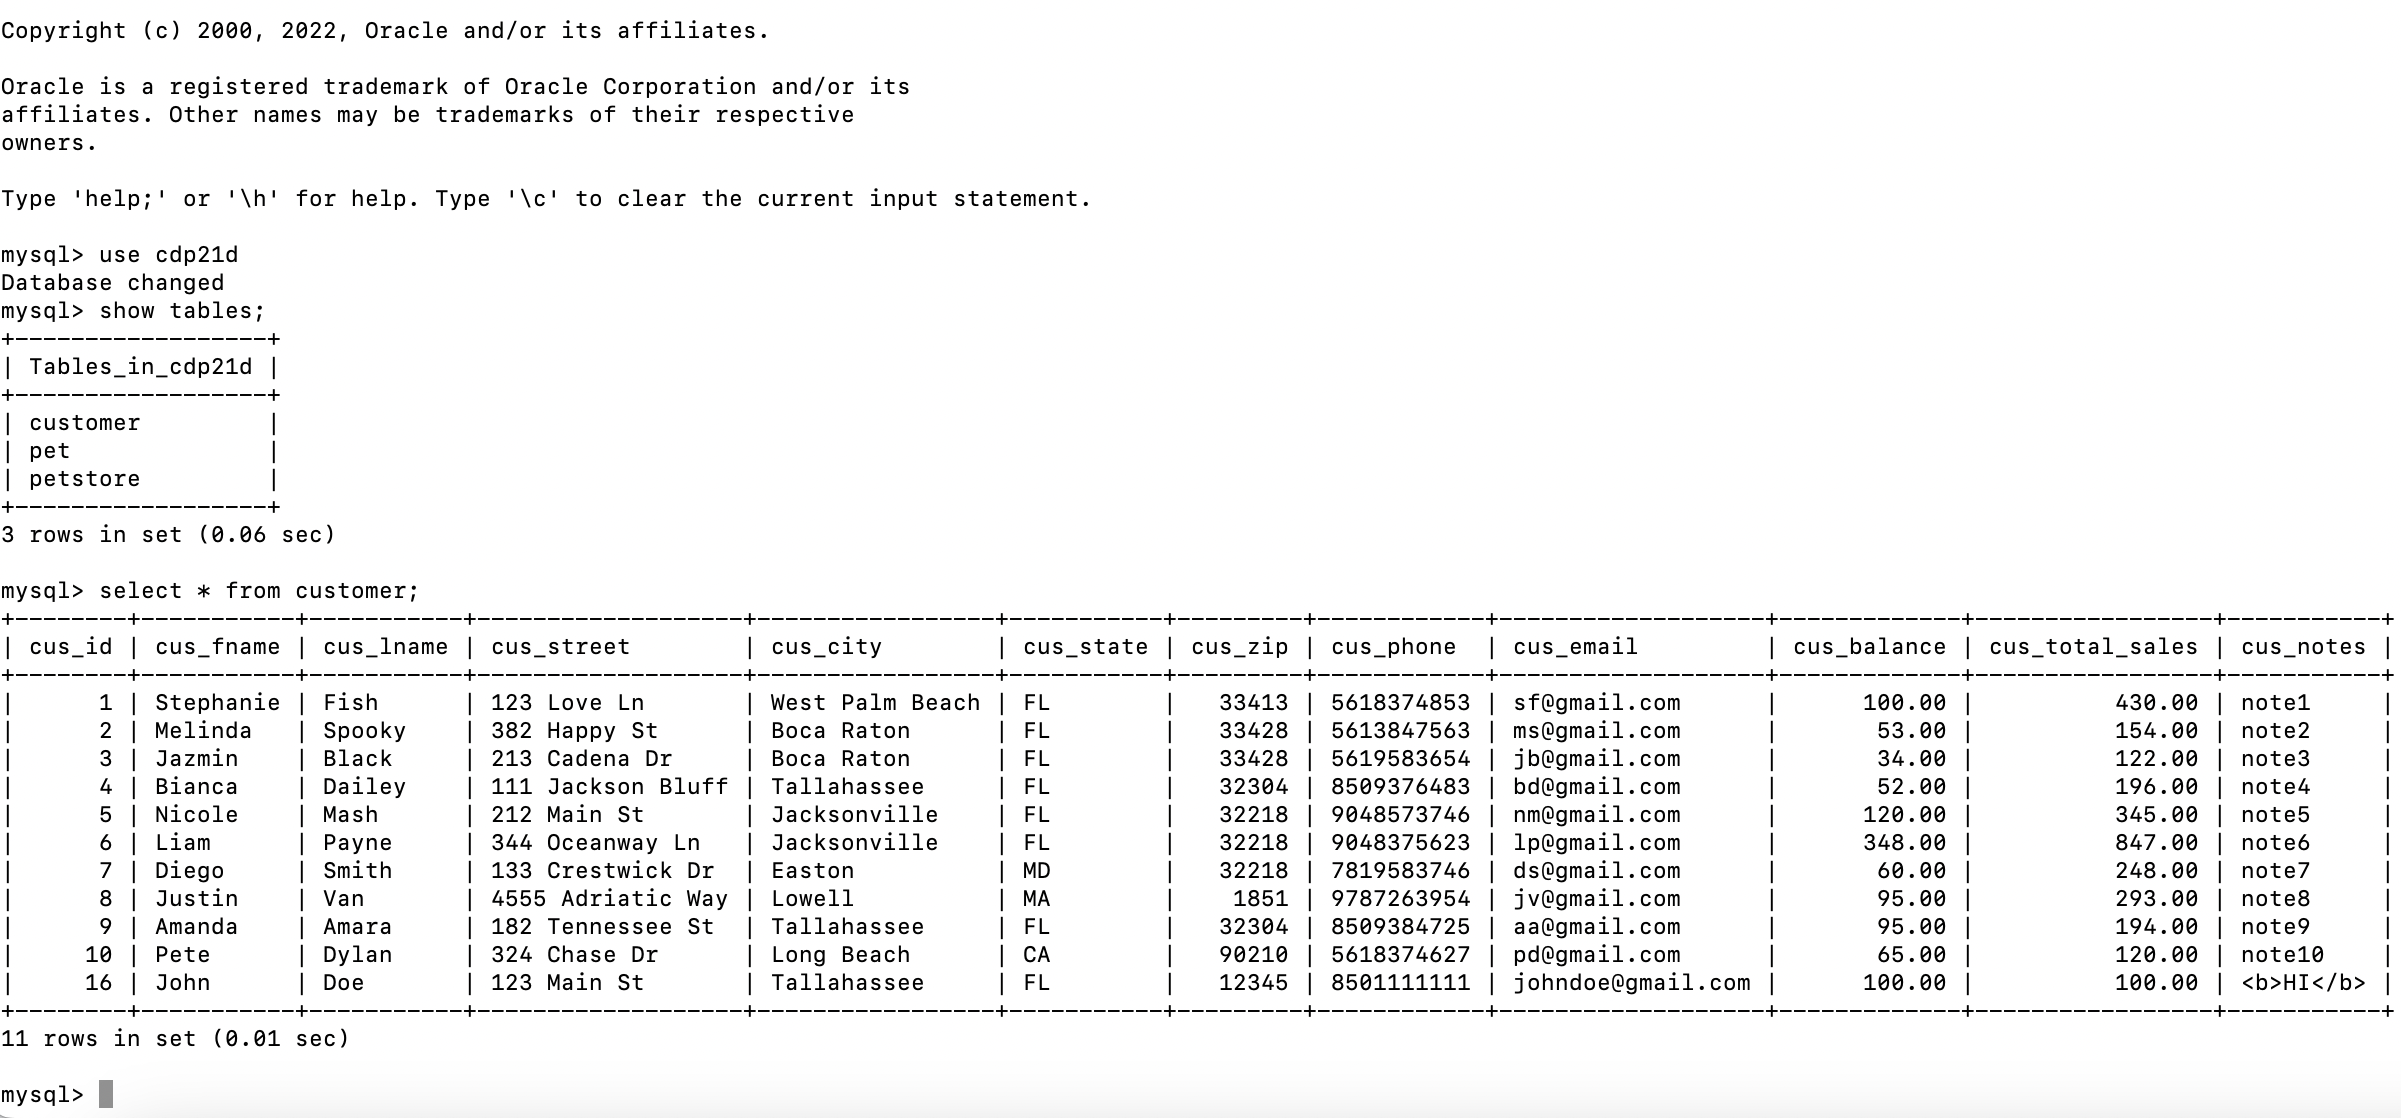
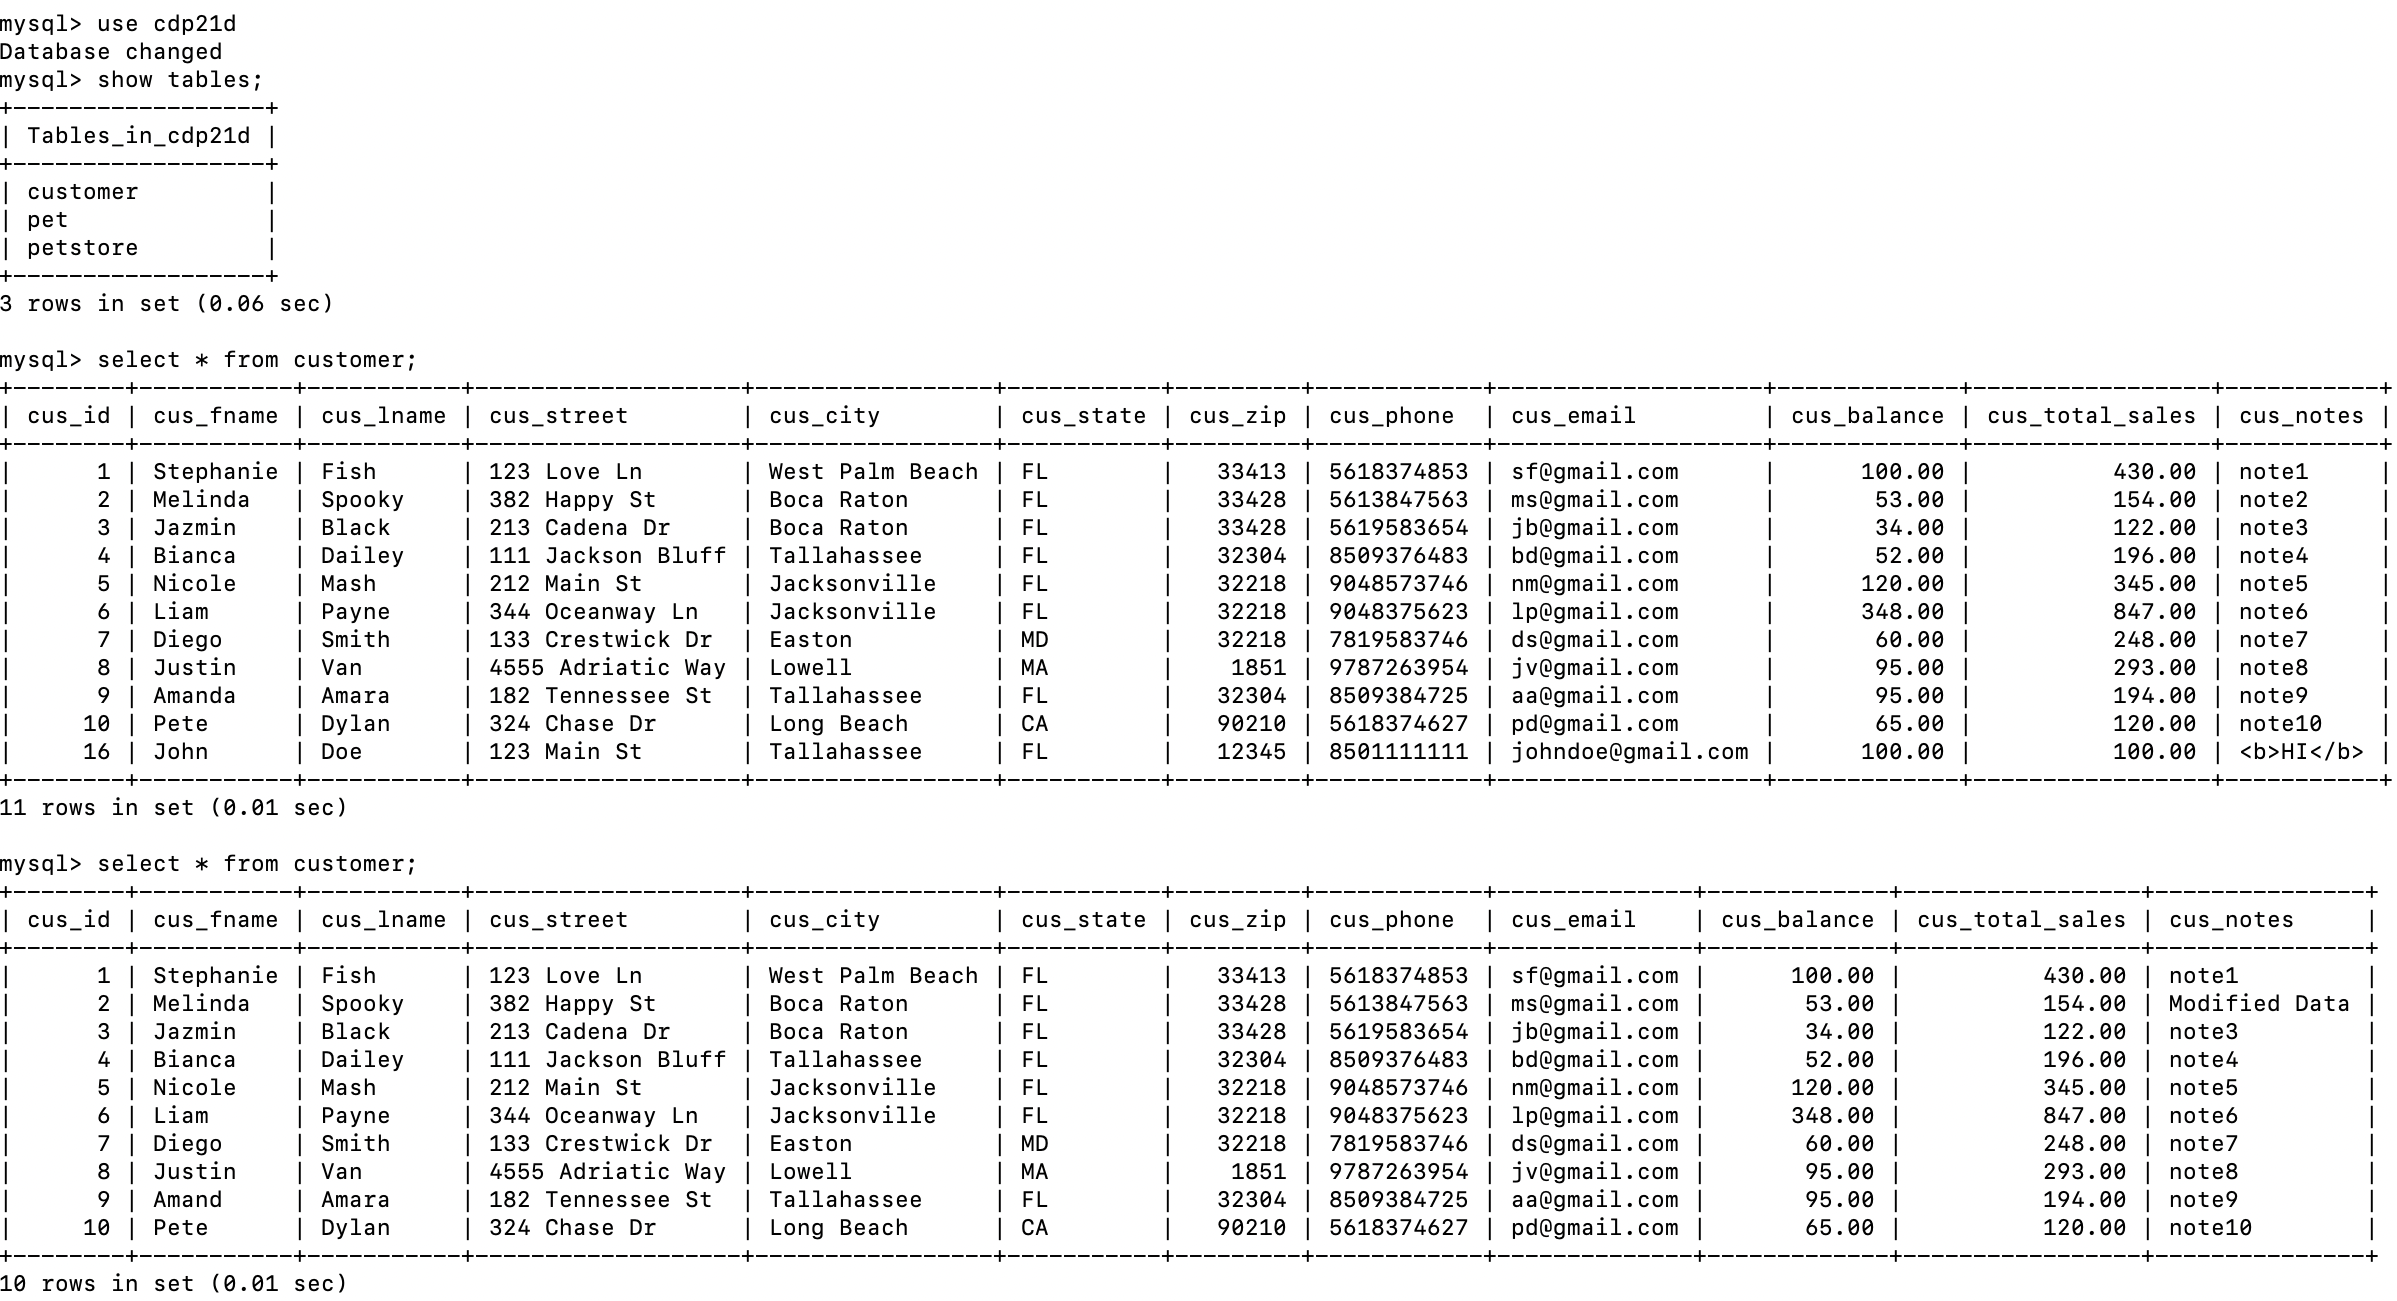
p2

diff --git a/WEB-INF/classes/crud/admin/CustomerServlet.java b/WEB-INF/classes/crud/admin/CustomerServlet.java
@@ -19,6 +19,7 @@ protected void doPost(HttpServletRequest request, HttpServletResponse response) 
 {
 
 HttpSession session = request.getSession();
+
 String url = "/index.jsp";
 String message = ""; 
 String action = null;
@@ -116,9 +117,9 @@ if (action == null || action.equals("join"))
 				}
 				else
 				{
-					Customer user = (Customer) session.getAttribute("user");
+					Customer user = (Customer)session.getAttribute("user");
 
-					user.setId(cid); //cid retrieved from request.getParameter(action);
+						user.setId(cid); //cid retrieved from request.getParameter(action);
 						user.setFname(firstName_v);
 						user.setLname(lastName_v);
 						user.setStreet(street_v);

diff --git a/WEB-INF/classes/crud/data/CustomerDB.java b/WEB-INF/classes/crud/data/CustomerDB.java
@@ -63,7 +63,7 @@ public class CustomerDB
         + "cus_email = ?, "
         + "cus_balance = ?, "
         + "cus_total_sales = ?, "
-        + "cus_notes = ?, "
+        + "cus_notes = ? "
         + "WHERE cus_id = ?";
 
         try
@@ -80,6 +80,7 @@ public class CustomerDB
             ps.setString(9, customer.getBalance());
             ps.setString(10, customer.getTotalSales());
             ps.setString(11, customer.getNotes());
+            ps.setString(12, customer.getId());
 
             return ps.executeUpdate();
         }

diff --git a/p2/README.md b/p2/README.md
@@ -25,7 +25,7 @@
 
 | *Modify Form (modify.jsp)*      | *Modified Data (customers.jsp)*: | 
 | :----:       |    :----:   |
-| ![Skillset1](img/img4.png)   | ![Skillset2](img/img4.png) |
+| ![Skillset1](img/img4.png)   | ![Skillset2](img/img7.png) |
 
 
 | *Delete Warning (customers.jsp)*      | *Associated Database Changes (Select, Insert, Update, Delete*: | 
